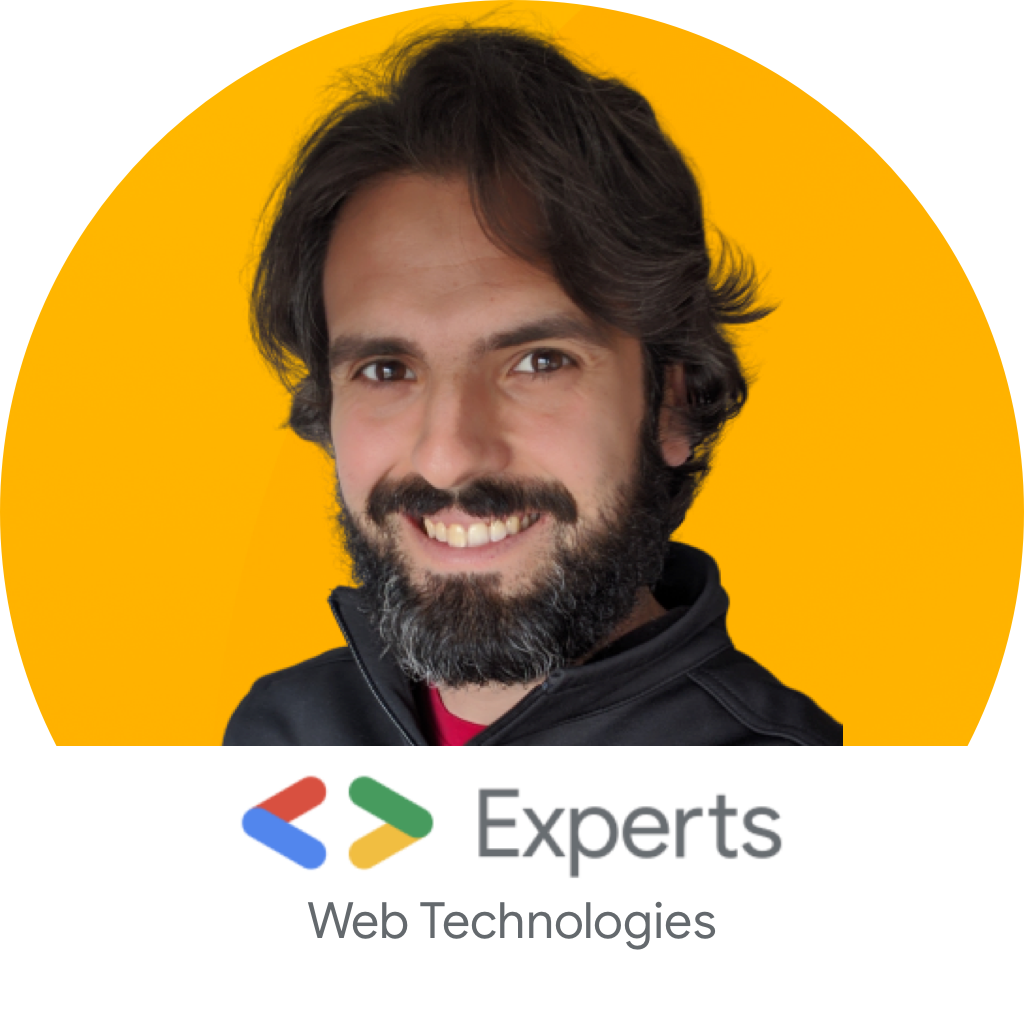
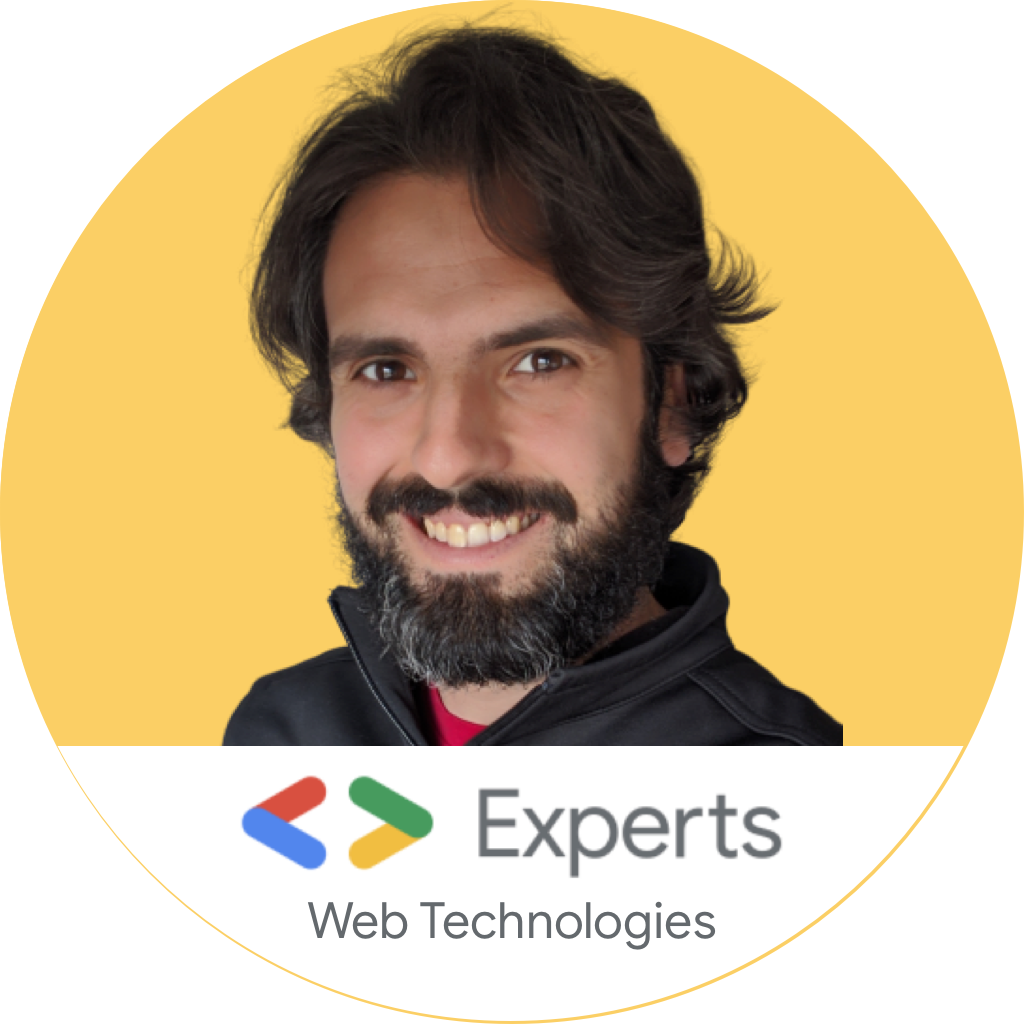
update yellow color

diff --git a/gatsby-config.js b/gatsby-config.js
@@ -97,8 +97,8 @@ module.exports = {
         short_name: `carlosazaustre.es`,
         description: `Formación y Desarrollo en JavaScript: Node.js, React, Vue, Firebase.`,
         start_url: `/`,
-        background_color: `#FCCB0B`,
-        theme_color: `#FCCB0B`,
+        background_color: `#FBCF65`,
+        theme_color: `#FBCF65`,
         display: `standalone`,
         icons: [
           {

diff --git a/src/@lekoarts/gatsby-theme-minimal-blog/components/layout.tsx b/src/@lekoarts/gatsby-theme-minimal-blog/components/layout.tsx
@@ -27,7 +27,7 @@ const Layout = ({ children, className }: LayoutProps) => (
             padding: 0,
             boxSizing: `border-box`,
             textRendering: `optimizeLegibility`,
-            borderTop: `10px solid #FFB934`
+            borderTop: `10px solid #FBCF65`
           },
           "::selection": {
             backgroundColor: `secondary`,

diff --git a/src/components/btn-cta.jsx b/src/components/btn-cta.jsx
@@ -16,7 +16,7 @@ export default ({ link, text, width = '300px' }) => {
           margin: 1rem auto;
           padding: 1rem;
           color: #222;
-          background-color: #FFB934;
+          background-color: #FBCF65;
           border-radius: 10px;
           font-weight: 700;
           font-size: 1.5em;

diff --git a/src/components/newsletter.jsx b/src/components/newsletter.jsx
@@ -44,7 +44,7 @@ export default ({
 }) => (
   <div
     className={css`
-      background-color: #FFB934;
+      background-color: #FBCF65;
       padding: 1em;
       border-radius: 5px;
     `}
